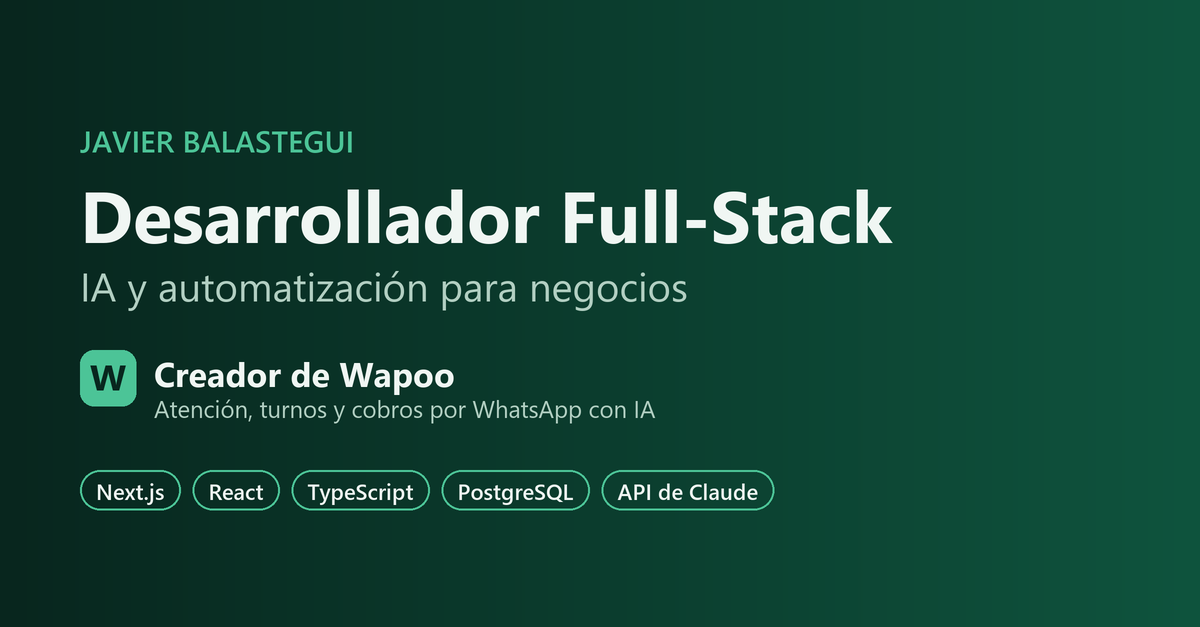
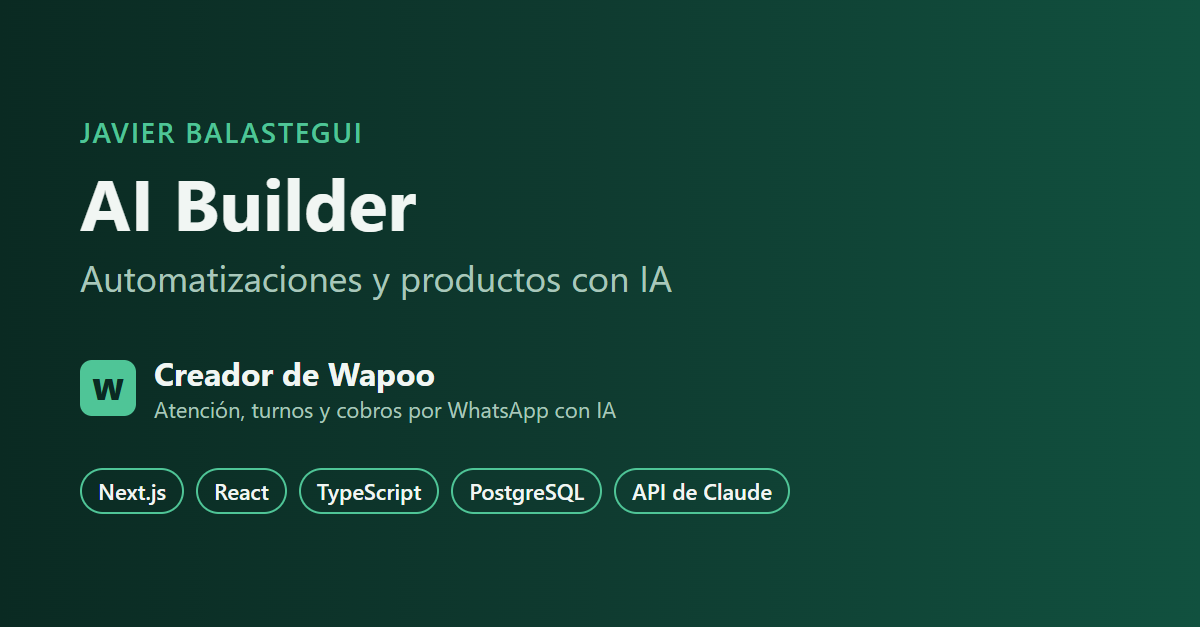
Nuevo titulo: AI Builder

diff --git a/en/index.html b/en/index.html
@@ -3,15 +3,15 @@
 <head>
 <meta charset="utf-8">
 <meta name="viewport" content="width=device-width, initial-scale=1, viewport-fit=cover">
-<title>Javier Balastegui · Full-Stack Developer</title>
-<meta name="description" content="Full-stack developer. I built Wapoo, an AI platform that answers WhatsApp, books appointments and collects deposits, in production with real customers. Next.js, PostgreSQL and the Claude API.">
+<title>Javier Balastegui · AI Builder</title>
+<meta name="description" content="AI Builder: I build AI automations and products. I built Wapoo, an AI platform that answers WhatsApp, books appointments and collects deposits, in production with real customers. Next.js, PostgreSQL and the Claude API.">
 <meta name="author" content="Javier Balastegui">
 <link rel="canonical" href="https://javier123balastegui-droid.github.io/en/">
 <link rel="icon" href="../favicon.svg" type="image/svg+xml">
 <meta property="og:type" content="profile">
 <meta property="og:url" content="https://javier123balastegui-droid.github.io/en/">
-<meta property="og:title" content="Javier Balastegui · Full-Stack Developer">
-<meta property="og:description" content="Full-stack developer. I built Wapoo, an AI platform that answers WhatsApp, books appointments and collects deposits, in production with real customers. Next.js, PostgreSQL and the Claude API.">
+<meta property="og:title" content="Javier Balastegui · AI Builder">
+<meta property="og:description" content="AI Builder: I build AI automations and products. I built Wapoo, an AI platform that answers WhatsApp, books appointments and collects deposits, in production with real customers. Next.js, PostgreSQL and the Claude API.">
 <meta property="og:image" content="https://javier123balastegui-droid.github.io/og.png">
 <meta property="og:image:width" content="1200">
 <meta property="og:image:height" content="627">
@@ -120,7 +120,7 @@ footer { margin-top: 36px; padding-top: 14px; border-top: 1px solid var(--line);
   <header>
     <div>
       <h1>Javier Balastegui</h1>
-      <p class="role"><b>Full-stack developer</b> · AI and automation for businesses, from idea to production</p>
+      <p class="role"><b>AI Builder</b> · AI automations and products, from idea to production</p>
     </div>
     <div class="head-meta">
       <span>Villa Carlos Paz, Córdoba, Argentina · Remote or hybrid</span>
@@ -135,7 +135,7 @@ footer { margin-top: 36px; padding-top: 14px; border-top: 1px solid var(--line);
       <section>
         <h2>Profile</h2>
         <p class="summary">I design, build and run complete web products. On my own, end to end, I built a SaaS platform with an AI assistant that handles WhatsApp: it is in production with real users and I am now offering it to other businesses.</p>
-        <p class="summary">I am a self-taught developer and build automations for small businesses. I come from healthcare, so I know from the inside how a clinic works: appointments, no-shows, multi-practitioner teams and the administrative load. I work close to the business: I talk to the people who use the system, measure what happens in production and prioritize what saves them time or money. I want to join a product team where I can build with ownership.</p>
+        <p class="summary">I am self-taught and build AI automations for small businesses. I come from healthcare, so I know from the inside how a clinic works: appointments, no-shows, multi-practitioner teams and the administrative load. I work close to the business: I talk to the people who use the system, measure what happens in production and prioritize what saves them time or money. I want to join a product team where I can build with ownership.</p>
       </section>
 
       <section>
@@ -144,7 +144,7 @@ footer { margin-top: 36px; padding-top: 14px; border-top: 1px solid var(--line);
           <h3>Wapoo — AI-powered customer service and scheduling over WhatsApp</h3>
           <span>Sep 2026 – present</span>
         </div>
-        <p class="job-sub">Founder and sole developer · Product, architecture, development, deployment and support</p>
+        <p class="job-sub">Founder · Built it solo: product, architecture, development, deployment and support</p>
 
         <div class="kpis">
           <div class="kpi"><b>16 s</b><span>median assistant response time in production</span></div>
@@ -182,7 +182,7 @@ footer { margin-top: 36px; padding-top: 14px; border-top: 1px solid var(--line);
       <section>
         <h2>Experience</h2>
         <div class="job-head">
-          <h3>Automation developer · Freelance</h3>
+          <h3>AI automations · Freelance</h3>
           <span>Present</span>
         </div>
         <ul class="bul" style="margin-top: 10px">
@@ -254,7 +254,7 @@ footer { margin-top: 36px; padding-top: 14px; border-top: 1px solid var(--line);
   </div>
 
   <footer>
-    <span>Javier Balastegui · Full-stack developer · <a href="../">Versión en español</a></span>
+    <span>Javier Balastegui · AI Builder · <a href="../">Versión en español</a></span>
     <button class="print" type="button" onclick="window.print()">Save as PDF</button>
   </footer>
 </main>

diff --git a/index.html b/index.html
@@ -3,15 +3,15 @@
 <head>
 <meta charset="utf-8">
 <meta name="viewport" content="width=device-width, initial-scale=1, viewport-fit=cover">
-<title>Javier Balastegui · Desarrollador Full-Stack</title>
-<meta name="description" content="Desarrollador full-stack. Creé Wapoo, una plataforma con IA que atiende WhatsApp, da turnos y cobra señas, en producción con clientes reales. Next.js, PostgreSQL y API de Claude.">
+<title>Javier Balastegui · AI Builder</title>
+<meta name="description" content="AI Builder: automatizaciones y productos con IA. Creé Wapoo, una plataforma con IA que atiende WhatsApp, da turnos y cobra señas, en producción con clientes reales. Next.js, PostgreSQL y API de Claude.">
 <meta name="author" content="Javier Balastegui">
 <link rel="canonical" href="https://javier123balastegui-droid.github.io/">
 <link rel="icon" href="favicon.svg" type="image/svg+xml">
 <meta property="og:type" content="profile">
 <meta property="og:url" content="https://javier123balastegui-droid.github.io/">
-<meta property="og:title" content="Javier Balastegui · Desarrollador Full-Stack">
-<meta property="og:description" content="Desarrollador full-stack. Creé Wapoo, una plataforma con IA que atiende WhatsApp, da turnos y cobra señas, en producción con clientes reales. Next.js, PostgreSQL y API de Claude.">
+<meta property="og:title" content="Javier Balastegui · AI Builder">
+<meta property="og:description" content="AI Builder: automatizaciones y productos con IA. Creé Wapoo, una plataforma con IA que atiende WhatsApp, da turnos y cobra señas, en producción con clientes reales. Next.js, PostgreSQL y API de Claude.">
 <meta property="og:image" content="https://javier123balastegui-droid.github.io/og.png">
 <meta property="og:image:width" content="1200">
 <meta property="og:image:height" content="627">
@@ -120,7 +120,7 @@ footer { margin-top: 36px; padding-top: 14px; border-top: 1px solid var(--line);
   <header>
     <div>
       <h1>Javier Balastegui</h1>
-      <p class="role"><b>Desarrollador full-stack</b> · IA y automatización para negocios, de la idea a producción</p>
+      <p class="role"><b>AI Builder</b> · Automatizaciones y productos con IA, de la idea a producción</p>
     </div>
     <div class="head-meta">
       <span>Villa Carlos Paz, Córdoba, Argentina · Remoto o híbrido</span>
@@ -144,7 +144,7 @@ footer { margin-top: 36px; padding-top: 14px; border-top: 1px solid var(--line);
           <h3>Wapoo — plataforma de atención y turnos por WhatsApp con IA</h3>
           <span>Sep 2026 – actualidad</span>
         </div>
-        <p class="job-sub">Fundador y único desarrollador · Producto, arquitectura, desarrollo, despliegue y soporte</p>
+        <p class="job-sub">Fundador · Lo construí solo: producto, arquitectura, desarrollo, despliegue y soporte</p>
 
         <div class="kpis">
           <div class="kpi"><b>16 s</b><span>mediana de respuesta del asistente en producción</span></div>
@@ -182,7 +182,7 @@ footer { margin-top: 36px; padding-top: 14px; border-top: 1px solid var(--line);
       <section>
         <h2>Experiencia</h2>
         <div class="job-head">
-          <h3>Desarrollador de automatizaciones · Independiente</h3>
+          <h3>Automatizaciones con IA · Independiente</h3>
           <span>Actualidad</span>
         </div>
         <ul class="bul" style="margin-top: 10px">
@@ -254,7 +254,7 @@ footer { margin-top: 36px; padding-top: 14px; border-top: 1px solid var(--line);
   </div>
 
   <footer>
-    <span>Javier Balastegui · Desarrollador full-stack · <a href="en/">English version</a></span>
+    <span>Javier Balastegui · AI Builder · <a href="en/">English version</a></span>
     <button class="print" type="button" onclick="window.print()">Guardar como PDF</button>
   </footer>
 </main>
